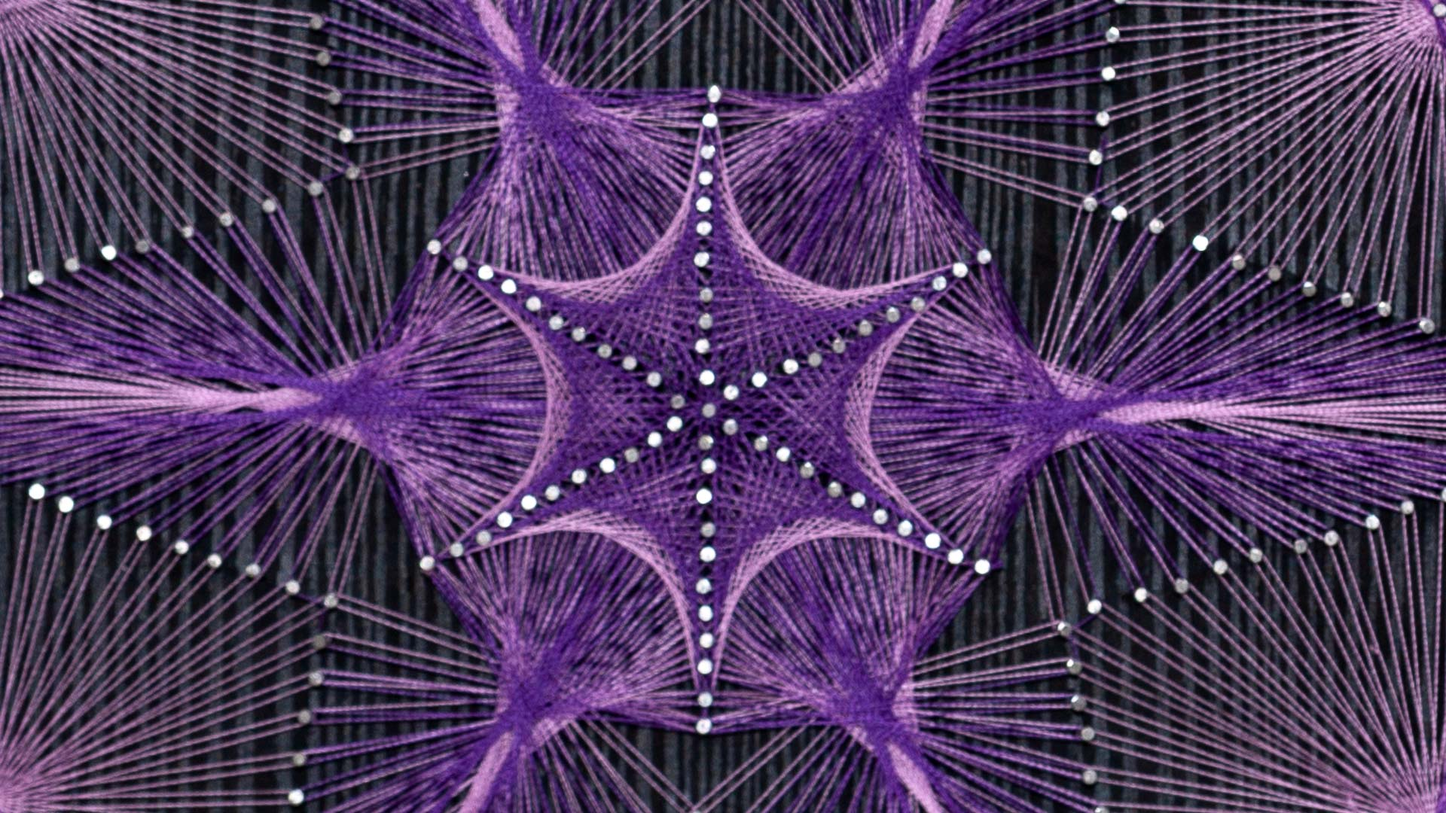
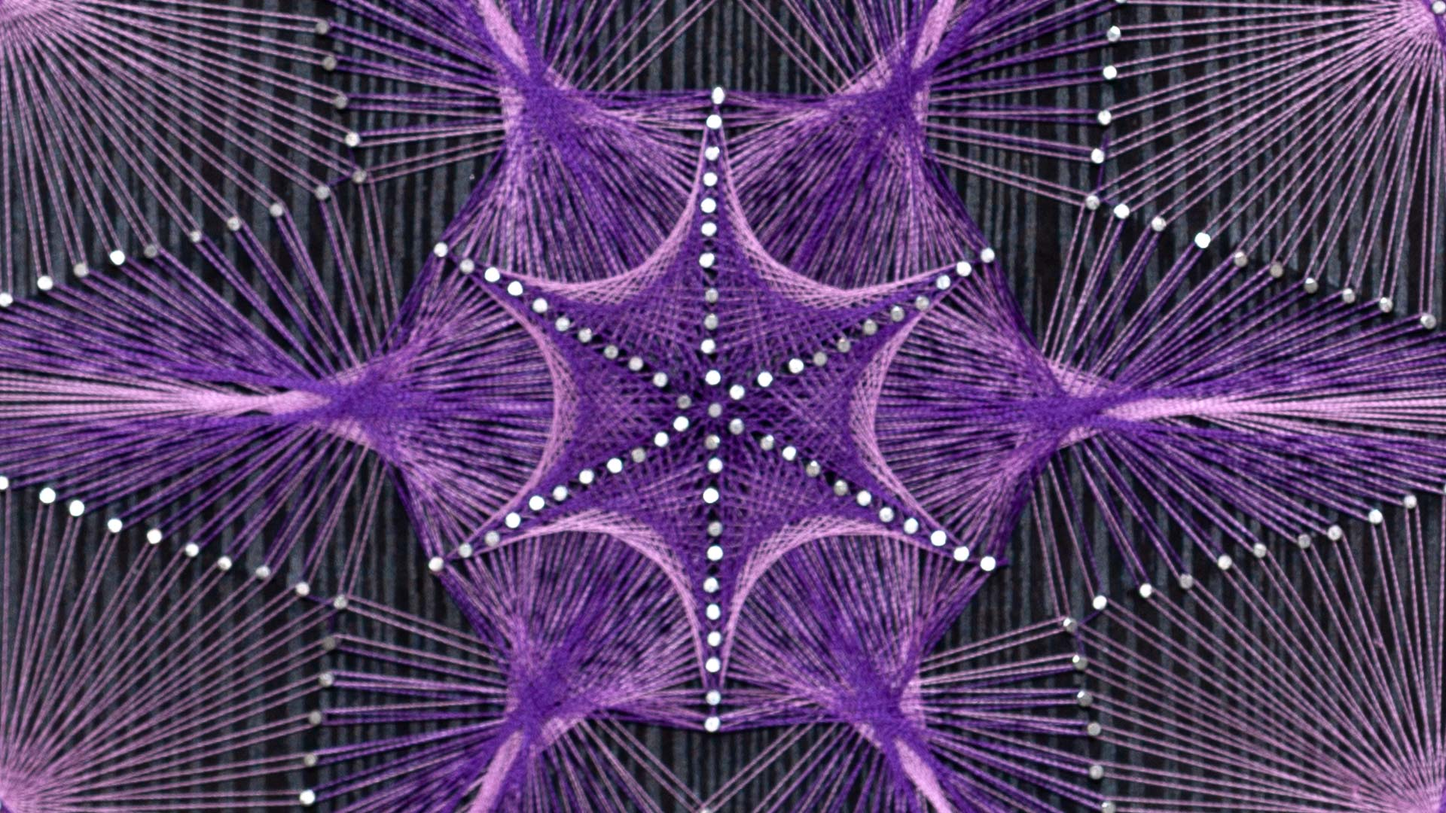
Improved photo quality.
git-notify: 🚨 PHOTO THUMBNAIL GENERATION 🚨
To re-generate photo thumbnails, please install ImageMagick and use the following command:
mogrify -resize 512 -strip -format JPG -quality 50 -path "src/.vuepress/public/images/photos/thumbs" "src/.vuepress/public/images/photos/*.JPG"

diff --git a/src/posts/2020-collection.md b/src/posts/2020-collection.md
@@ -7,7 +7,7 @@ tags:
   - collection
 paths:
   high: /images/photos/
-  low: /images/photos/
+  low: /images/photos/thumbs/
 albums:
   - id: Circles
     photos:

diff --git a/src/posts/2021-collection.md b/src/posts/2021-collection.md
@@ -7,7 +7,7 @@ tags:
   - collection
 paths:
   high: /images/photos/
-  low: /images/photos/
+  low: /images/photos/thumbs/
 albums:
   - id: All
     photos:
